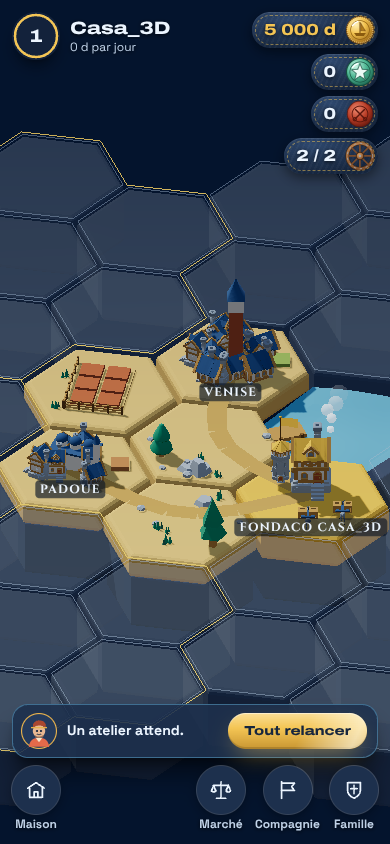
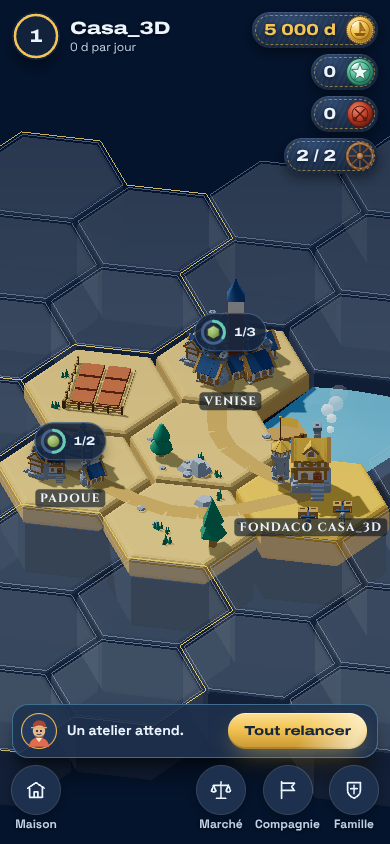
Web: the towns' orders in a floating pill (its arc, its good, « n/cap », gold and breathing when « Livrer » would go), in place of the beams and the columns of crates
Claude-Session: https://claude.ai/code/session_013mvvdTuhziXZ1rPVcfDwGY

Changed region(s): [[0.0923, 0.4929, 0.3385, 0.6161], [0.4923, 0.3697, 0.6769, 0.4929], [0.7077, 0.4005, 0.7692, 0.4621]]

diff --git a/apps/web/src/empire/map3d/Board3D.tsx b/apps/web/src/empire/map3d/Board3D.tsx
@@ -31,7 +31,6 @@ import {
   useState,
 } from "react";
 import {
-  BoxGeometry,
   BufferAttribute,
   BufferGeometry,
   Cache,
@@ -49,7 +48,6 @@ import {
   Vector2,
 } from "three";
 import { mergeGeometries } from "three/examples/jsm/utils/BufferGeometryUtils.js";
-import { goodsColour } from "../../art/goods.js";
 import { HEX_SIZE, cellCentre } from "../../art/hexmap.js";
 import { C } from "../../art/plateau/props.js";
 import type { Camera, Viewport } from "../../game/map/geometry.js";
@@ -924,53 +922,18 @@ const edgeGeo = (() => {
   return g;
 })();
 const edgeGold = new MeshBasicMaterial({ color: C.gold, side: DoubleSide });
-const edgeLagoon = new MeshBasicMaterial({ color: "#6EE0B8", side: DoubleSide });
-const beamGeo = new CylinderGeometry(0.9, 1.6, 40, 10, 1, true);
-beamGeo.translate(0, 20, 0);
-const beamMat = new MeshBasicMaterial({
-  color: C.gold,
-  transparent: true,
-  opacity: 0.22,
-  depthWrite: false,
-  side: DoubleSide,
-});
-const crateGeo = new BoxGeometry(2, 1.7, 2);
-crateGeo.translate(0, 0.85, 0);
-const crateLow = new BoxGeometry(2, 0.5, 2);
-crateLow.translate(0, 0.25, 0);
-
 /**
- * The towns tell their orders by the scenery (decision of the owner, 3 November 2026): a crate an
- * order on their quay, tinted by its chain, full when the stock covers it, low else; their tile
- * edged in gold when « Livrer » would go now (and a beam of light seen from afar), in lagoon-green
- * when they are full.
+ * A town where « Livrer » would go now: its tile edged in gold (its orders, how full it is, are
+ * told by its floating pill over it, EmpireMap's `CityMark`; decision of the owner, 4 November).
  */
 function Towns3D({ looks }: { looks: CityLook[] }) {
   return (
     <group>
-      {looks.map((c) => (
-        <group key={c.code} position={[c.x, 0, c.y]}>
-          {c.state !== "open" && (
-            <mesh
-              geometry={edgeGeo}
-              material={c.state === "deliverable" ? edgeGold : edgeLagoon}
-              position-y={0.07}
-            />
-          )}
-          {c.state === "deliverable" && <mesh geometry={beamGeo} material={beamMat} />}
-          {c.crates.map((k, i) => (
-            <mesh
-              // biome-ignore lint/suspicious/noArrayIndexKey: an order is its place on the quay
-              key={i}
-              geometry={k.covered ? crateGeo : crateLow}
-              material={claySolid(goodsColour(k.good))}
-              // On its quay, east of the town (its name lies under it, to the south).
-              position={[TILE_R * 0.62, 0, (i - (c.crates.length - 1) / 2) * 2.3 - 0.6]}
-              castShadow
-            />
-          ))}
-        </group>
-      ))}
+      {looks
+        .filter((c) => c.state === "deliverable")
+        .map((c) => (
+          <mesh key={c.code} geometry={edgeGeo} material={edgeGold} position={[c.x, 0.07, c.y]} />
+        ))}
     </group>
   );
 }

diff --git a/apps/web/src/empire/map/CityPill.tsx b/apps/web/src/empire/map/CityPill.tsx
@@ -1,0 +1,63 @@
+import { GoodsMark } from "../../art/goods.js";
+import { fr } from "../../i18n.js";
+import type { EmpirePayload } from "../types.js";
+import { deliveryPlan } from "./logic.js";
+
+const R = 11;
+const ROUND = 2 * Math.PI * R;
+
+/**
+ * A town's orders over it on the 3D board (decision of the owner, 4 November 2026: clear, modern,
+ * in place of the crates and the beams): a pill floating over the town, its arc filling with its
+ * orders, the mark of its best paid good, « 2/3 »; in gold, breathing slowly, when « Livrer » would
+ * go now. Always the same size on the screen, its height over the town following the zoom.
+ */
+export function CityPill({ p, code }: { p: EmpirePayload; code: string }) {
+  const at = p.view?.orders.find((x) => x.city === code);
+  if (!at) return null;
+  const n = at.orders.length;
+  const plan = deliveryPlan(p, code);
+  const ready = plan.vehicle !== null;
+  const full = n >= at.cap;
+  const good = [...at.orders].sort((a, b) =>
+    BigInt(b.pay) > BigInt(a.pay) ? 1 : BigInt(b.pay) < BigInt(a.pay) ? -1 : 0,
+  )[0]?.good;
+  const share = at.cap > 0 ? Math.min(1, n / at.cap) : 0;
+  return (
+    <span
+      className={`city-pill pointer-events-auto absolute bottom-full left-1/2 flex items-center gap-1.5 whitespace-nowrap rounded-full py-1 pl-1 pr-2.5 shadow-lg shadow-black/50 ${
+        ready ? "city-pill-ready bg-gold text-ink" : "bg-night/90 text-cream ring-1 ring-line"
+      }`}
+      data-city-pill={code}
+      data-ready={ready ? "" : undefined}
+      aria-label={fr.empire.orders.pill(n, at.cap, ready)}
+    >
+      <span className="relative flex h-7 w-7 items-center justify-center">
+        <svg viewBox="0 0 28 28" className="absolute inset-0 -rotate-90" aria-hidden="true">
+          <circle
+            cx="14"
+            cy="14"
+            r={R}
+            fill="none"
+            stroke={ready ? "rgb(0 0 0 / 0.18)" : "rgb(var(--line))"}
+            strokeWidth="3"
+          />
+          <circle
+            cx="14"
+            cy="14"
+            r={R}
+            fill="none"
+            stroke={ready ? "#1B2A44" : full ? "rgb(var(--lagoon))" : "rgb(var(--lagoon) / 0.85)"}
+            strokeWidth="3"
+            strokeLinecap="round"
+            strokeDasharray={`${(ROUND * share).toFixed(1)} ${ROUND.toFixed(1)}`}
+          />
+        </svg>
+        {good ? <GoodsMark code={good} size={16} /> : null}
+      </span>
+      <span className="font-display text-xs font-bold tabular-nums">
+        {n}/{at.cap}
+      </span>
+    </span>
+  );
+}

diff --git a/apps/web/src/empire/map/EmpireMap.tsx b/apps/web/src/empire/map/EmpireMap.tsx
@@ -36,6 +36,7 @@ import { MAP_3D } from "../map3d/flag.js";
 import { sceneInputOf, sitesOf } from "../map3d/scene.js";
 import { pt } from "../porta/texts.js";
 import type { EmpireAction, EmpirePayload } from "../types.js";
+import { CityPill } from "./CityPill.js";
 import { DomainLabels } from "./Domain.js";
 import { Fleet } from "./Fleet.js";
 import {
@@ -1388,8 +1389,10 @@ function CityMark({
           </span>
         </span>
         <span className="map-name">{t.cityNames[code] ?? code}</span>
-        {/* The information layer: its orders on its cap, however far. */}
-        {orders && (
+        {/* On the 3D board, its orders in a pill floating over it; on the SVG board, the
+            information layer tells them, however far. */}
+        {orders && MAP_3D && <CityPill p={p} code={code} />}
+        {orders && !MAP_3D && (
           <span className="info-only rounded-full bg-night/85 px-1.5 font-display text-xs font-bold tabular-nums text-gold ring-1 ring-gold/60">
             {t.orders.infoCount(waiting, orders.cap)}
           </span>

diff --git a/apps/web/src/index.css b/apps/web/src/index.css
@@ -1545,3 +1545,26 @@ button.map-place {
 [data-domain] .map-layer > :not([data-domain-layer]) {
   display: none !important;
 }
+/* A town's pill over it (3D, 4 November 2026): the same size on the screen whatever the zoom (the
+   mark is scaled by the chart, the pill by its inverse), its height over the town with the zoom. */
+.city-pill {
+  transform-origin: 50% 100%;
+  transform: translateX(-50%) translateY(30px) scale(calc(var(--inv, 1) / var(--chartk, 1)));
+}
+.city-pill-ready {
+  animation: city-pill-breathe 2.4s ease-in-out infinite;
+}
+@keyframes city-pill-breathe {
+  0%,
+  100% {
+    box-shadow: 0 0 0 0 rgb(var(--gold) / 0.55), 0 6px 14px rgb(0 0 0 / 0.45);
+  }
+  50% {
+    box-shadow: 0 0 0 7px rgb(var(--gold) / 0), 0 6px 14px rgb(0 0 0 / 0.45);
+  }
+}
+@media (prefers-reduced-motion: reduce) {
+  .city-pill-ready {
+    animation: none;
+  }
+}

diff --git a/apps/web/src/i18n.ts b/apps/web/src/i18n.ts
@@ -301,6 +301,8 @@ const frDict = {
       renews: (at: string) => `Prochaine commande à ${at}`,
       full: "Pleine : plus de nouvelle commande tant qu'aucune n'est chargée.",
       send: "Y envoyer un véhicule",
+      pill: (n: number, cap: number, ready: boolean) =>
+        `${n} commande${n > 1 ? "s" : ""} sur ${cap}${ready ? ", livrable maintenant" : ""}`,
       deliver: (n: number, pay: string) => `Livrer · ${n} lot${n > 1 ? "s" : ""} · ${pay}`,
       deliverBy: (vehicle: string, time: string) => `${vehicle} · ${time} de route, retour seul`,
       lacking: (n: number) => `Il en manque ${n}`,

diff --git a/apps/web/src/i18n.en.ts b/apps/web/src/i18n.en.ts
@@ -381,6 +381,8 @@ export const en: Dictionary = {
       renews: (at: string) => `Next order at ${at}`,
       full: "Full: no new order until one is loaded.",
       send: "Send a vehicle there",
+      pill: (n: number, cap: number, ready: boolean) =>
+        `${n} order${n > 1 ? "s" : ""} out of ${cap}${ready ? ", deliverable now" : ""}`,
       deliver: (n: number, pay: string) => `Deliver · ${n} lot${n > 1 ? "s" : ""} · ${pay}`,
       deliverBy: (vehicle: string, time: string) => `${vehicle} · ${time} on the road, back alone`,
       lacking: (n: number) => `${n} short`,

diff --git a/docs/plateau-reprise.md b/docs/plateau-reprise.md
@@ -244,3 +244,5 @@ Quatre experts (UX mobile, UI et direction artistique, game design, robustesse d
 - **Lot 4, la carte qui parle.** Les commandes en caisses sur le quai des villes (`cityLooks`, `Towns3D`), le liseré d'or quand « Livrer » partirait (et un faisceau vu de loin), vert d'eau quand la ville est pleine ; plus d'anneau HTML en 3D ; les textes de la carte à 12 px au moins ; le rejeu des livraisons faites pendant l'absence (`house.delivered`, `useAwayRecap`).
 - **Lot 5, la navigation.** « Maison » (le fondaco, puis son domaine au deuxième toucher), les flèches de bord vers le fondaco et les mules hors champ (`edgeArrow`), la ville touchée cadrée au-dessus de sa feuille, le suivi qui survit au pincement, le pavé tactile (deux doigts déplacent, le pincement zoome), un écran de chargement.
 - **Lot 6, l'équilibrage et Lorenzo.** Les réglages des commandes (`orders.firstLotBps`, `madeWeight`, `distanceBps`, `distanceMaxBps`), le simulateur sur la logique des commandes du moteur, et Lorenzo qui propose les vraies livraisons : voir `docs/calibration.md`, § « L'audit de la carte ».
+
+**Retouche du 4 novembre (retour du porteur).** Les faisceaux jaunes des villes livrables et les colonnes de caisses empilées étaient peu lisibles au-delà de quelques commandes : retirés. Chaque ville porte à la place une pastille flottante (`map/CityPill.tsx`) : l'arc de ses commandes sur son plafond, la marque de sa marchandise la mieux payée, « n/plafond » ; dorée et respirant lentement quand « Livrer » partirait ; toujours de la même taille à l'écran. Le liseré doré de la tuile reste pour une ville livrable.
